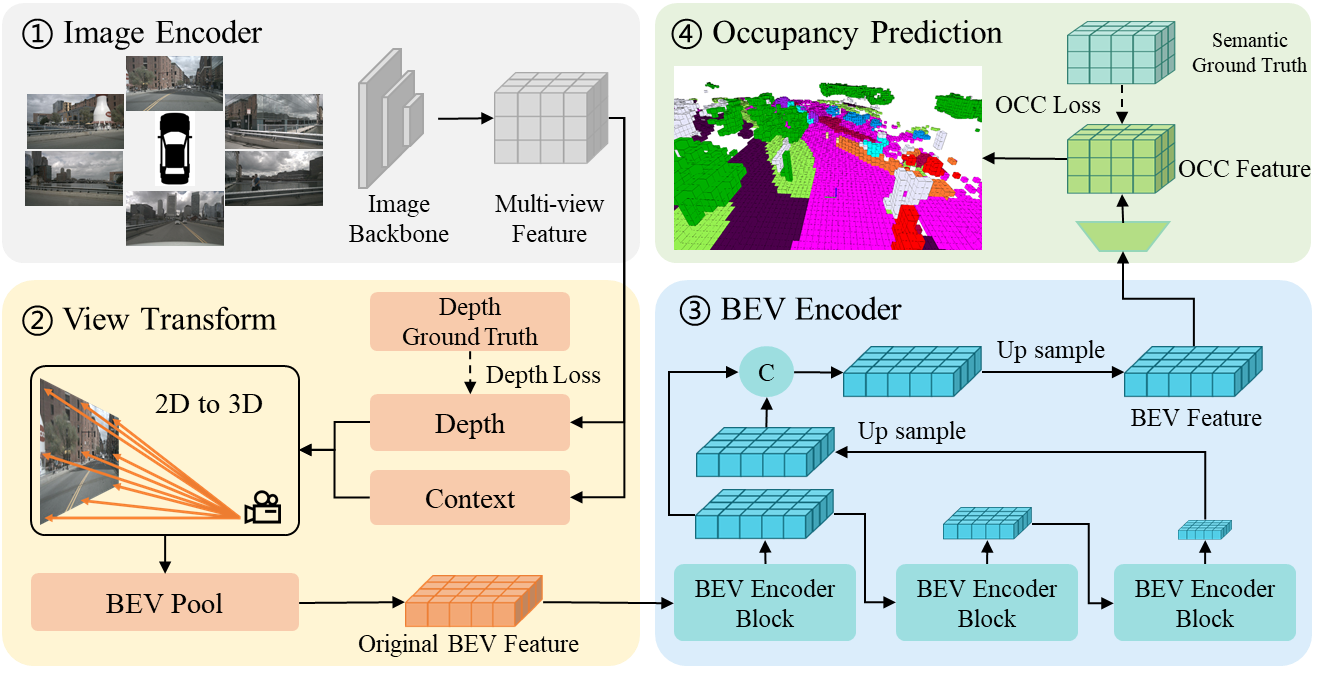
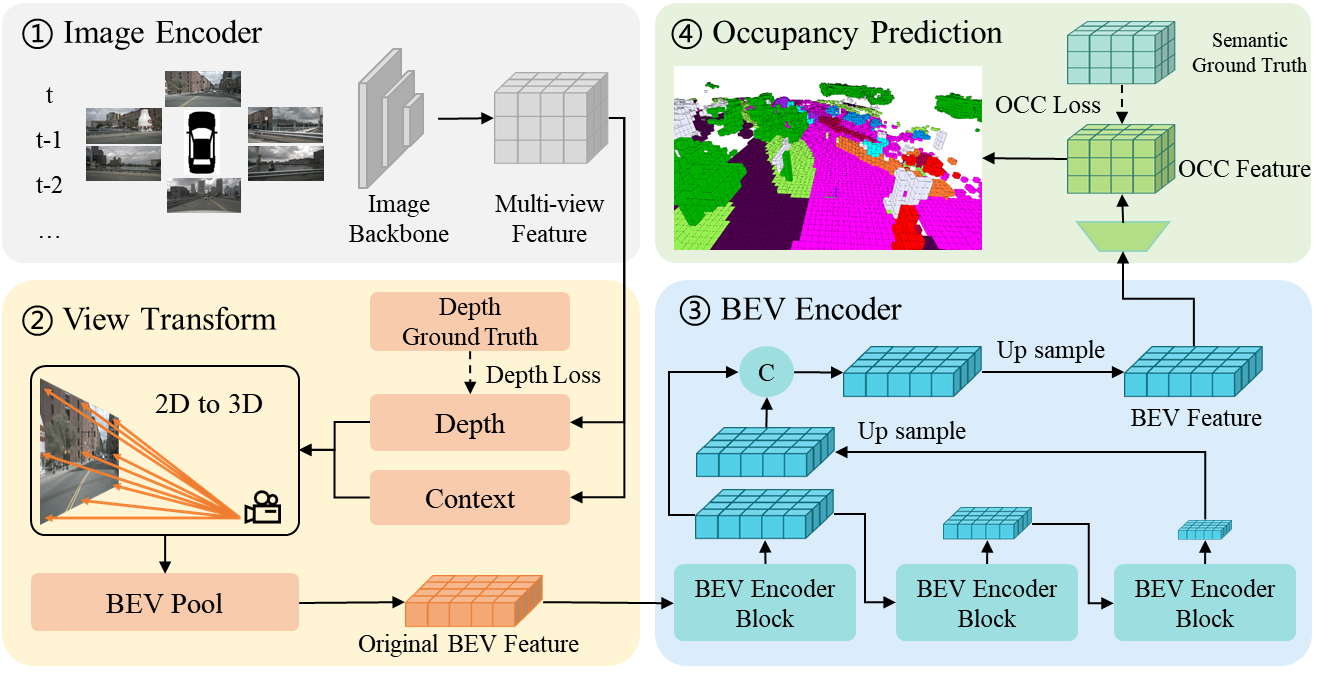
release model weight

Changed region(s): [[0.0, 0.0624, 0.2464, 0.3744]]

diff --git a/projects/configs/scocc/scocc-r50-4d-stereo.py b/projects/configs/scocc/scocc-r50-4d-stereo.py
@@ -39,7 +39,7 @@ grid_config = {
 voxel_size = [0.1, 0.1, 0.2]
 
 numC_Trans = 80
-multi_adj_frame_id_cfg = (1, 1+1, 1)
+multi_adj_frame_id_cfg = (1, 6+1, 1)
 
 
 model = dict(
@@ -226,7 +226,7 @@ lr_config = dict(
     warmup_ratio=0.001,
     step=[24, ])
 runner = dict(type='EpochBasedRunner', max_epochs=24)
-# runner = dict(type='EpochBasedRunner', max_epochs=150)
+
 
 custom_hooks = [
     dict(

diff --git a/projects/mmdet3d_plugin/models/dense_heads/__init__.py b/projects/mmdet3d_plugin/models/dense_heads/__init__.py
@@ -1,4 +1,4 @@
 from .bev_centerpoint_head import BEV_CenterHead, Centerness_Head
-from .bev_occ_head import BEVOCCHead2D, BEVOCCHead3D, BEVOCCHead2D_V2
+from .bev_occ_head import BEVOCCHead2D, BEVOCCHead3D
 
-__all__ = ['Centerness_Head', 'BEV_CenterHead', 'BEVOCCHead2D', 'BEVOCCHead3D', 'BEVOCCHead2D_V2']
+__all__ = ['Centerness_Head', 'BEV_CenterHead', 'BEVOCCHead2D', 'BEVOCCHead3D']

diff --git a/projects/configs/scocc/scocc-stbase-4d-stereo-512x1408_4x4_2e-4.py b/projects/configs/scocc/scocc-stbase-4d-stereo-512x1408_4x4_2e-4.py
@@ -39,7 +39,7 @@ voxel_size = [0.1, 0.1, 0.2]
 
 numC_Trans = 80
 
-multi_adj_frame_id_cfg = (1, 1+1, 1)
+multi_adj_frame_id_cfg = (1, 4+1, 1)
 
 model = dict(
     type='BEVStereo4DOCC',

diff --git a/README.md b/README.md
@@ -16,14 +16,13 @@ This repository is an official implementation of SCOcc.
 
 ## TODO Lists
 * Release the visualization code.
-* Release the weight of SCOcc.
+
 
 ## Main Results
-| Config                                                                                               | Backbone | Input <br/>Size | mIoU  |  Model  |      Log |
-|:-----------------------------------------------------------------------------------------------------|:--------:|:----------:|:-----:|:------:|:-------:|
-| [**SCOcc (1f)**](projects/configs/scocc/scocc-r50.py)                                                |   R50    |  256x704   | 33.95 |     -      |       -      |
-| [**SCOcc-4D-Stereo (2f)**](projects/configs/scocc/scocc-r50-4d-stereo.py)                            |   R50    |  256x704   | 38.91 |     -    | -       |
-| [**SCOcc-4D-Stereo (2f)**](projects/configs/scocc/scocc-stbase-4d-stereo-512x1408_4x4_2e-4.py) |  Swin-B  | 512x1408   | 43.76 |     -      |       -       |
+| Config                                                                                         | Backbone | Input <br/>Size | mIoU  | Model                                                                                                      |
+|:-----------------------------------------------------------------------------------------------|:--------:|:---------------:|:-----:|:-----------------------------------------------------------------------------------------------------------|
+| [**SCOcc-4D-Stereo (6f)**](projects/configs/scocc/scocc-r50-4d-stereo.py)                      |   R50    |     256x704     | 40.51 | [**scocc-r50-6f**](https://drive.google.com/file/d/1bISLcGrgBY_lIdtlGvaiPcBuCwZAEOCZ/view?usp=drive_link)  | 
+| [**SCOcc-4D-Stereo (4f)**](projects/configs/scocc/scocc-stbase-4d-stereo-512x1408_4x4_2e-4.py) |  Swin-B  |    512x1408     | 45.01 | [**scocc-swin-4f**](https://drive.google.com/file/d/1JscU3Vg0e_UmsccRKMrs4ttrjgKYAOuc/view?usp=drive_link) | 
 
 
 ## Get Started
